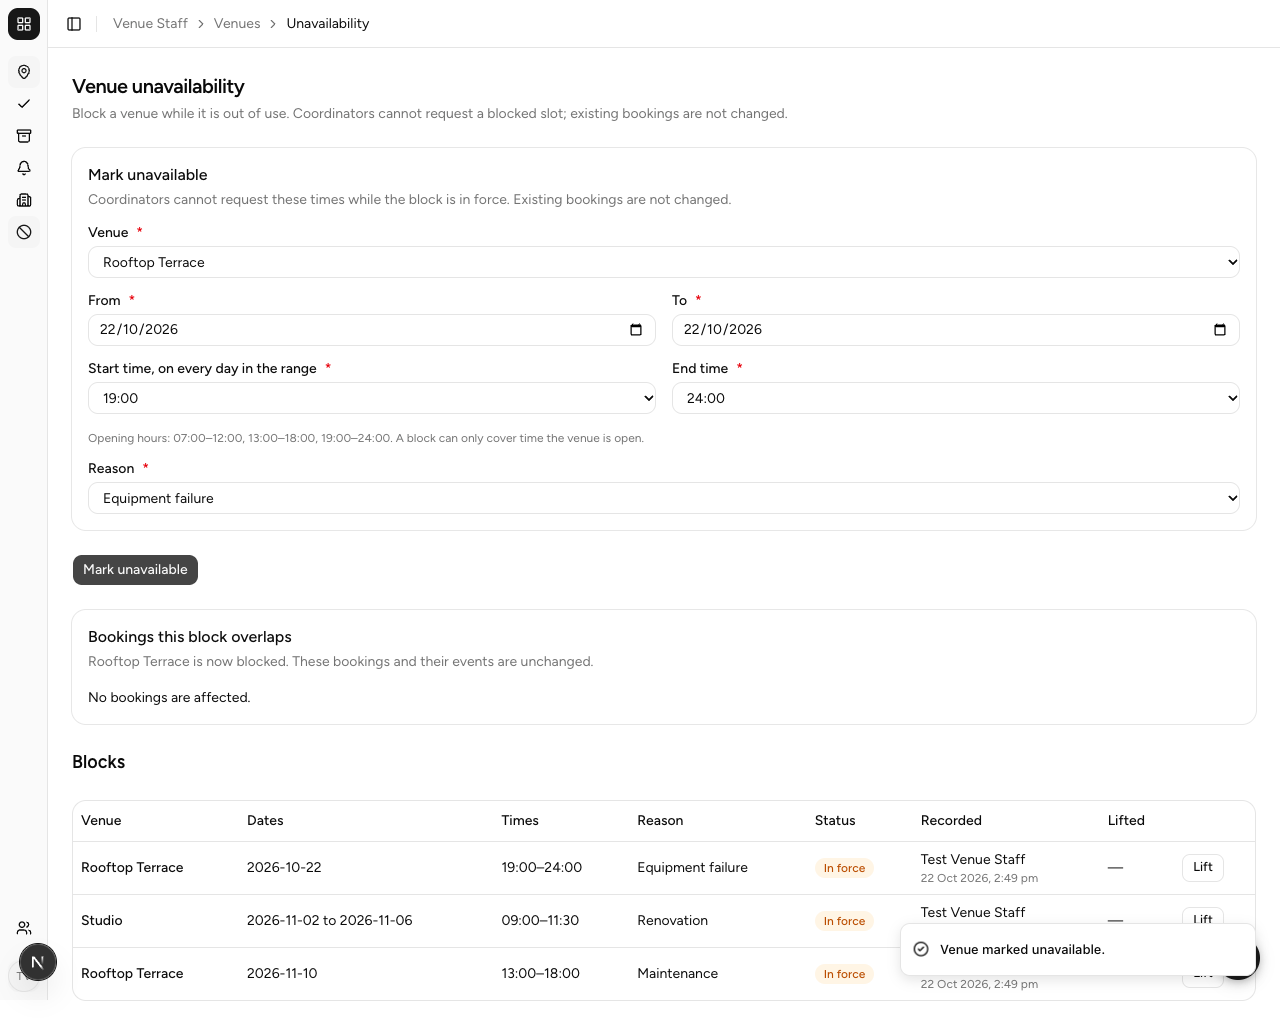
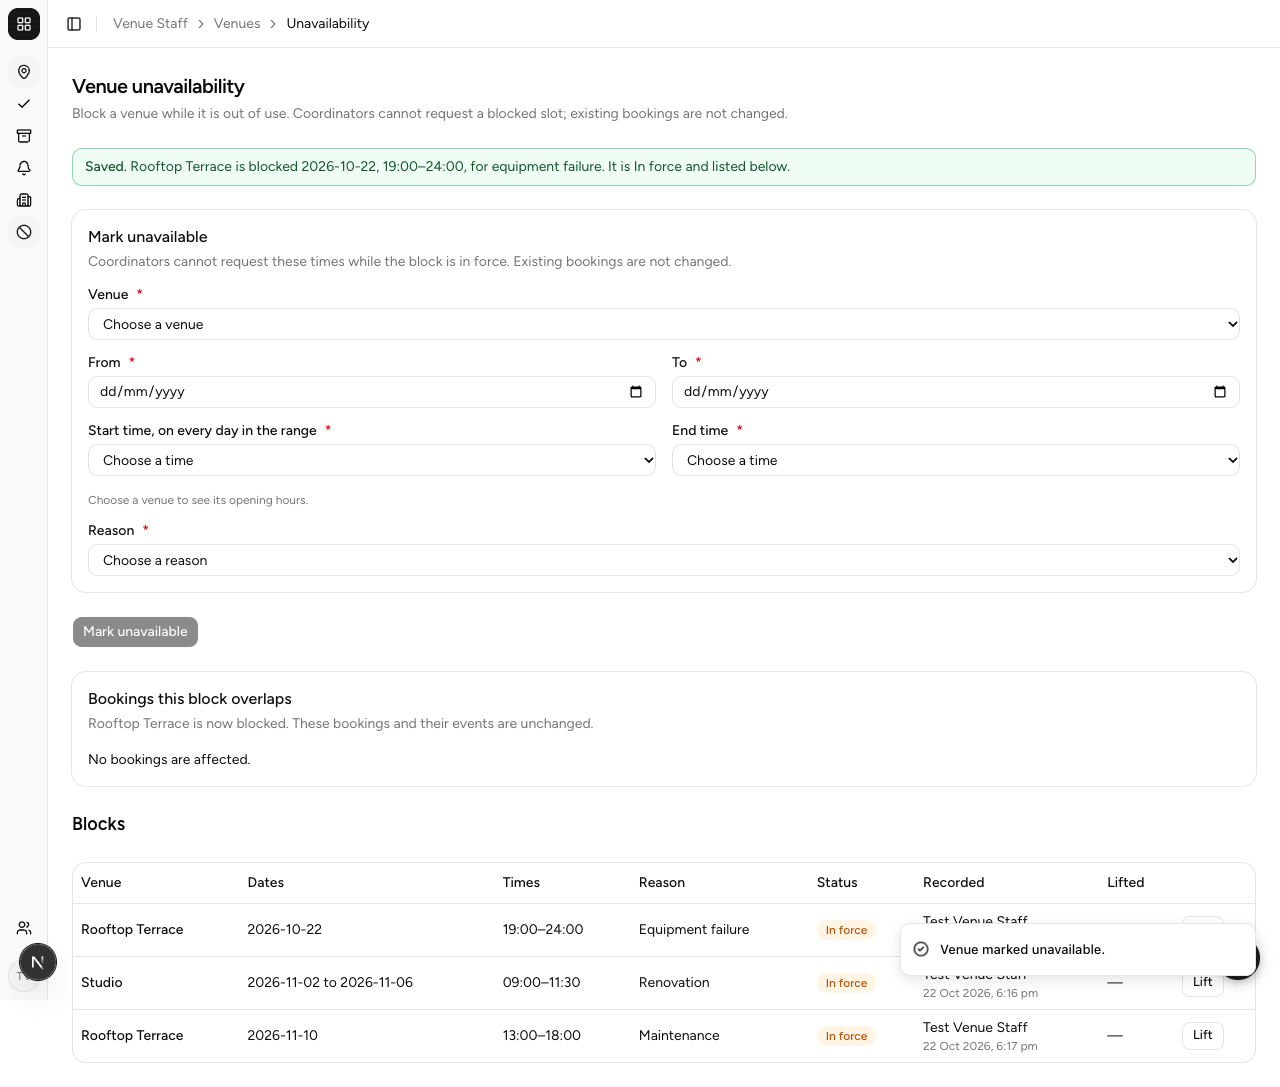
docs(testing): add TC-VBLOCK-012 and 013, explain the checks.sql result, new screenshots (SPM-321)

diff --git a/docs/testing/VENUE_UNAVAILABILITY_MANUAL_TESTS.md b/docs/testing/VENUE_UNAVAILABILITY_MANUAL_TESTS.md
@@ -18,13 +18,13 @@ are compared by the hours they cover), and venue search treats it as taken. A bl
 early and stays on record as Lifted.
 
 The cases are specified in [`../tests/manual-registry.csv`](../tests/manual-registry.csv) as
-`TC-VBLOCK-001` to `TC-VBLOCK-011`. Report what you ran in the PR description's
+`TC-VBLOCK-001` to `TC-VBLOCK-013`. Report what you ran in the PR description's
 `## Manual test results` table (CaseID, Result, Actual result, Remarks, Evidence); CI records it
 in `manual-runs.csv` when the PR merges, so do not edit that file. The ticked boxes and
 screenshots below are the working record for this run.
 
-**Last run:** all eleven cases passed on 2026-10-22. A browser script drove TC-VBLOCK-001 to 007
-and 009 to 011 and checked each expected result, and `checks.sql` ran TC-VBLOCK-008. The
+**Last run:** all thirteen cases passed on 2026-10-22. A browser script drove TC-VBLOCK-001 to 007,
+009 to 012 and checked each expected result, `checks.sql` ran TC-VBLOCK-008, and TC-VBLOCK-013 was run by hand with SQL. The
 screenshots are in [`../screenshots/`](../screenshots/).
 
 **Run the cases in order**, or re-seed (below) between them: TC-VBLOCK-004, 006 and 011 build on
@@ -105,9 +105,11 @@ keep a weekday range such as 2026-11-02 to 2026-11-06 in the future).
 **Expected Result:**
 - The block saves and is listed: Studio, 2026-11-02 to 2026-11-06, **09:00–11:30**, Renovation, **In force**, recorded by Test Venue Staff with the time.
 - The page says *No bookings are affected.*
+- A green message says what was saved: *Saved. Studio is blocked 2026-11-02 to 2026-11-06, 09:00–11:30, for renovation. It is In force and listed below.*
+- The form is empty again, with **Mark unavailable** disabled, so the block is not one click from being saved a second time.
 - The count is **50**: five days × ten quarter hours (codes 36 to 45 each day).
 
-**Status:** [x] Pass [ ] Fail — 2026-10-22, run in Chrome via Playwright by Claude Code for JameszLau (4/4 checks)
+**Status:** [x] Pass [ ] Fail — 2026-10-22, run in Chrome via Playwright by Claude Code for JameszLau (6/6 checks)
 
 **Screenshots:** [step1-form-filled](../screenshots/2026-10-22_SPM-321_TC-VBLOCK-001_step1-form-filled.png) · [step2-saved-in-force](../screenshots/2026-10-22_SPM-321_TC-VBLOCK-001_step2-saved-in-force.png)
 
@@ -170,7 +172,7 @@ supabase db query --file scripts/seed-venue-unavailability/refusals.sql --local
 - The card lists *UAT-44 Booked Harbour · 2026-11-05 13:00 to 18:00 · Confirmed*: the booking's days and hours, not the PM slot name, and says the bookings and their events are unchanged.
 - The booking is still `Confirmed` and the event still `Planning`.
 
-**Status:** [x] Pass [ ] Fail — 2026-10-22, run in Chrome via Playwright by Claude Code for JameszLau (4/4 checks)
+**Status:** [x] Pass [ ] Fail — 2026-10-22, run in Chrome via Playwright by Claude Code for JameszLau (6/6 checks)
 
 **Screenshots:** [step1-form-filled](../screenshots/2026-10-22_SPM-321_TC-VBLOCK-003_step1-form-filled.png) · [step2-affected-bookings-listed](../screenshots/2026-10-22_SPM-321_TC-VBLOCK-003_step2-affected-bookings-listed.png)
 
@@ -275,9 +277,13 @@ supabase db query --file scripts/seed-venue-unavailability/refusals.sql --local
 
 **Expected Result:**
 - Step 1: one `recorded` row per block and one `lifted` row per lifted block. On the run date: 7 recorded, 1 lifted, for 7 blocks and 1 lifted.
-- Step 2: ends with *ok: all 30 checks held*. They cover a non-Venue-Staff session being refused on record, lift, list and affected bookings, the audit rows, the busy-time read of 09:00 to 10:00, a booking slot whose hours a block reaches being refused with `CS028` while a slot it does not reach is accepted, a block touching only a quarter hour of AM refusing AM, a block that starts as AM ends not refusing it, approving, holding and confirming a hold over a block recorded later being refused, a block over the 12:00 to 13:00 lunch gap being refused with `CS078` and leaving nothing behind, the calendar read giving quarter hours in order, and lifting twice being refused.
+- Step 2: ends with *ok: all 34 checks held*. They cover a non-Venue-Staff session being refused on record, lift, list and affected bookings, the audit rows, the busy-time read of 09:00 to 10:00, a booking slot whose hours a block reaches being refused with `CS028` while a slot it does not reach is accepted, a block touching only a quarter hour of AM refusing AM, a block that starts as AM ends not refusing it, approving, holding and confirming a hold over a block recorded later being refused, the same block twice being refused with `CS079` while another reason, shorter times, or the same block after a lift are accepted, a block over the 12:00 to 13:00 lunch gap being refused with `CS078` and leaving nothing behind, the calendar read giving quarter hours in order, and lifting twice being refused.
 
-**Status:** [x] Pass [ ] Fail — 2026-10-22, run in Chrome via Playwright by Claude Code for JameszLau (2/2 checks). `checks.sql` ended with "ok: all 30 checks held"
+**Status:** [x] Pass [ ] Fail — 2026-10-22, run in Chrome via Playwright by Claude Code for JameszLau (2/2 checks). `checks.sql` ended with "ok: all 34 checks held"
+
+**Reading the result:** the CLI prints `failed to execute query: error: ok: all 34 checks held`. That
+is the pass. The script ends with an error on purpose, so that everything it wrote is rolled back,
+and the CLI words any error as "failed". A real failure reads `error: FAILED: <the checks that did not hold>`.
 
 **Screenshots:** none (database checks)
 
@@ -343,3 +349,66 @@ supabase db query --file scripts/seed-venue-unavailability/refusals.sql --local
 **Status:** [x] Pass [ ] Fail — 2026-10-22, run in Chrome via Playwright by Claude Code for JameszLau (1/1 check)
 
 **Screenshots:** [step1-calendar-week-of-2026-11-02](../screenshots/2026-10-22_SPM-321_TC-VBLOCK-011_step1-calendar-week-of-2026-11-02.png)
+
+---
+
+### TC-VBLOCK-012: The same block cannot be saved twice (SPM-321)
+
+**Scenario:** Rooftop Terrace is blocked for Maintenance on 2026-11-10, 13:00–18:00 (TC-VBLOCK-002, row 5). A second member of Venue Staff, with an old page open, enters exactly the same block. It should be refused, not stacked. A different reason, or shorter times, is a different block and is allowed.
+
+**Preconditions:** TC-VBLOCK-002 has run, so the Rooftop Terrace block above is In force. Signed in as `venue@test.com`.
+
+**Steps:**
+1. Choose **Rooftop Terrace**, From and To `2026-11-10`, Start **13:00**, End **18:00**, Reason **Maintenance**, press **Mark unavailable**.
+2. Change only the **Reason** to **Equipment failure** and press **Mark unavailable**.
+3. Choose **Rooftop Terrace**, From and To `2026-11-10`, Start **13:00**, End **17:00**, Reason **Maintenance**, press **Mark unavailable**.
+
+**Expected Result:**
+- Step 1: refused with *That block is already in force: same venue, reason, dates and times.* Nothing is saved, and the form keeps what was entered so one field can be changed.
+- Step 2: saves: the same hours under another reason is a different block (overlapping blocks are allowed). The *Saved.* message names Rooftop Terrace, 2026-11-10, 13:00–18:00, equipment failure.
+- Step 3: saves: the same reason over shorter times overlaps the first but is not the same block.
+- A lifted block no longer counts: after lifting, the identical block can be saved again (unit and database checks).
+
+**Status:** [x] Pass [ ] Fail — 2026-10-22, run in Chrome via Playwright by Claude Code for JameszLau
+
+**Screenshots:** [step1-same-block-refused](../screenshots/2026-10-22_SPM-321_TC-VBLOCK-012_step1-same-block-refused.png) · [step2-other-reason-saved](../screenshots/2026-10-22_SPM-321_TC-VBLOCK-012_step2-other-reason-saved.png) · [step3-shorter-block-saved](../screenshots/2026-10-22_SPM-321_TC-VBLOCK-012_step3-shorter-block-saved.png)
+
+---
+
+### TC-VBLOCK-013: Existing blocks convert to 15-minute slots (SPM-321 AC6)
+
+**Scenario:** Before this change Studio had a Renovation block on 2026-12-01 and 2026-12-02 for AM and Night, and a Safety block on 2026-12-03 PM that Venue Staff had already lifted. After the upgrade they must cover exactly the same hours, none may be lost, and the lifted one must stay lifted.
+
+**Preconditions:** Local Supabase. This case rebuilds the database only as far as the migration before this one, so it cannot follow the browser cases without a reset.
+
+**Steps:**
+1. Rebuild up to the migration before this change and load the venues:
+   ```bash
+   supabase db reset --version 20261020020000
+   supabase db query --file scripts/seed-venues/seed.sql --local
+   ```
+2. Record the two blocks the old way (AM, Night, PM codes): save the SQL below as `legacy.sql` and run `supabase db query --file legacy.sql --local`.
+   ```sql
+with staff as (select user_account_id u from user_account where name = 'Test Venue Staff' and client_organisation_id is null),
+studio as (select venue_id v from venue where location = 'Studio'),
+ren as (insert into venue_unavailability (venue_id, reason_category, recorded_by_user_account_id) select v, 'Renovation', u from studio, staff returning venue_unavailability_id i),
+s1 as (insert into venue_unavailability_slot (venue_unavailability_id, slot_date, slot) select i, d, s from ren, (values ('2026-12-01'::date), ('2026-12-02')) d(d), (values ('AM'), ('Night')) s(s) returning 1),
+saf as (insert into venue_unavailability (venue_id, reason_category, recorded_by_user_account_id, lifted_by_user_account_id, lifted_at) select v, 'Safety', u, u, now() from studio, staff returning venue_unavailability_id i),
+s2 as (insert into venue_unavailability_slot (venue_unavailability_id, slot_date, slot) select i, '2026-12-03', 'PM' from saf returning 1)
+select (select count(*) from s1) as renovation_rows, (select count(*) from s2) as safety_rows
+   ```
+   It reports 4 Renovation rows and 1 Safety row.
+3. Read the blocks before, then apply the migration, then read them again:
+   ```bash
+   supabase db query "select u.reason_category, case when u.lifted_at is null then 'In force' else 'Lifted' end as status, count(*) as slots, count(*) filter (where s.slot in ('AM','PM','Night')) as old_codes from venue_unavailability u join venue_unavailability_slot s using (venue_unavailability_id) group by 1,2 order by 1" --local
+   supabase migration up --local
+   supabase db query "select u.reason_category, case when u.lifted_at is null then 'In force' else 'Lifted' end as status, count(*) as slots, count(*) filter (where s.slot in ('AM','PM','Night')) as old_codes from venue_unavailability u join venue_unavailability_slot s using (venue_unavailability_id) group by 1,2 order by 1" --local
+   ```
+
+**Expected Result:**
+- Before: Renovation, In force, 4 slots, 4 old codes; Safety, Lifted, 1 slot, 1 old code.
+- After: Renovation, In force, **80** slots (2 days × AM 28–47 and Night 76–95), **0** old codes; Safety, **Lifted**, **20** slots (PM 52–71), 0 old codes. No block is lost and the lifted block is still lifted.
+
+**Status:** [x] Pass [ ] Fail — 2026-10-22, run by Claude Code for JameszLau against local Supabase (before and after read as above)
+
+**Screenshots:** none (database case)
